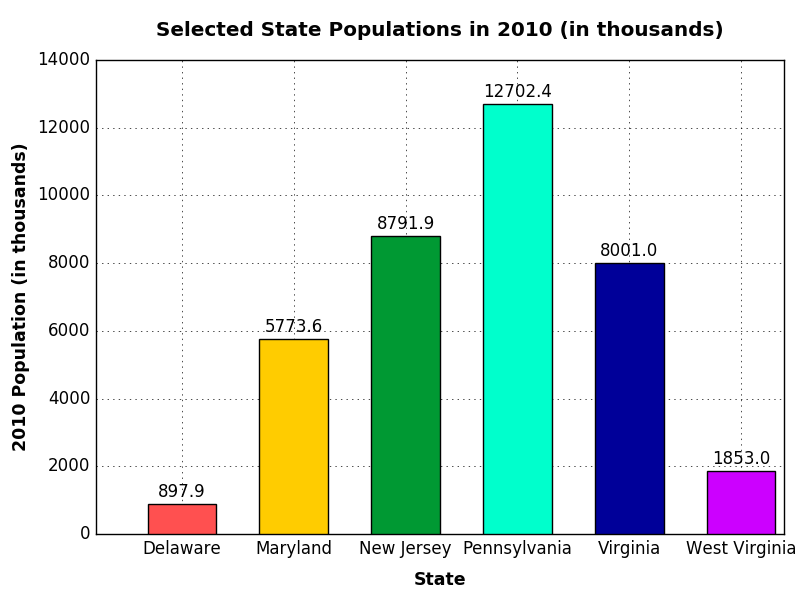
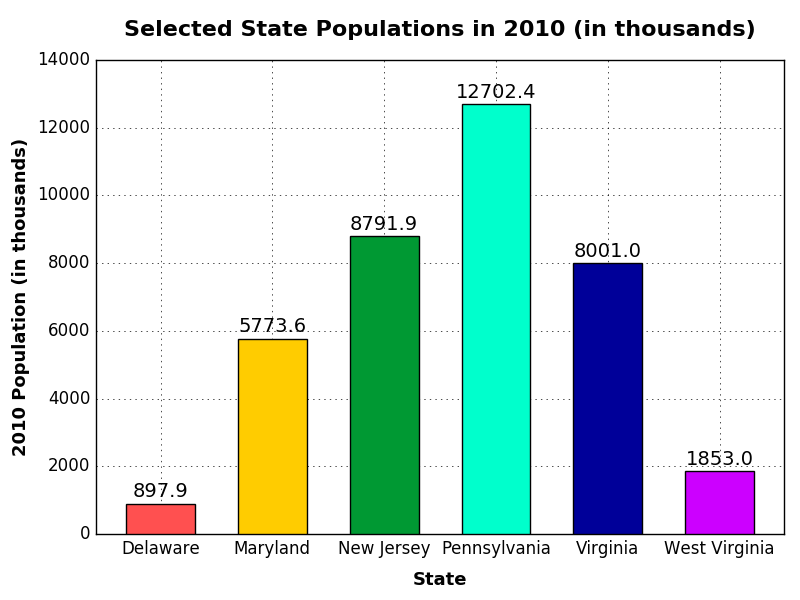
modify bar graph
increase size of some plot text

diff --git a/bar_graph.py b/bar_graph.py
@@ -59,7 +59,8 @@ for i in range(0, len(census_subset['Name'])):
              (bars[i].get_height() + 350),
              round(bars[i].get_height(), 1),
              horizontalalignment = 'center',
-             verticalalignment = 'center')
+             verticalalignment = 'center',
+             fontsize = 14)
 
 # Remove ticks from both axes.
 ax1.tick_params(axis = 'both',
@@ -67,6 +68,12 @@ ax1.tick_params(axis = 'both',
 
 # Adjust plot title spacing.
 ax1.title.set_position([0.5, 1.035])
+
+# Adjust x-axis and y-axis tick label size.
+plt.tick_params(axis = 'both', labelsize = 12)
+
+# Adjust x-axis.
+plt.xlim([-0.75, 7.25])
 
 # Adjust x-axis title spacing.
 ax1.xaxis.labelpad = 10
@@ -80,13 +87,14 @@ plt.xticks(np.arange(0,
 
 # Set plot and axes titles.
 plt.title('Selected State Populations in 2010 (in thousands)',
-          fontweight = 'bold')
+          fontweight = 'bold',
+          fontsize = 16)
 plt.xlabel('State',
            fontweight = 'bold',
-           fontsize = 12.5)
+           fontsize = 13)
 plt.ylabel('2010 Population (in thousands)',
            fontweight = 'bold',
-           fontsize = 12.5)
+           fontsize = 13)
 
 # Add grid.
 ax1.grid(zorder = 0)
